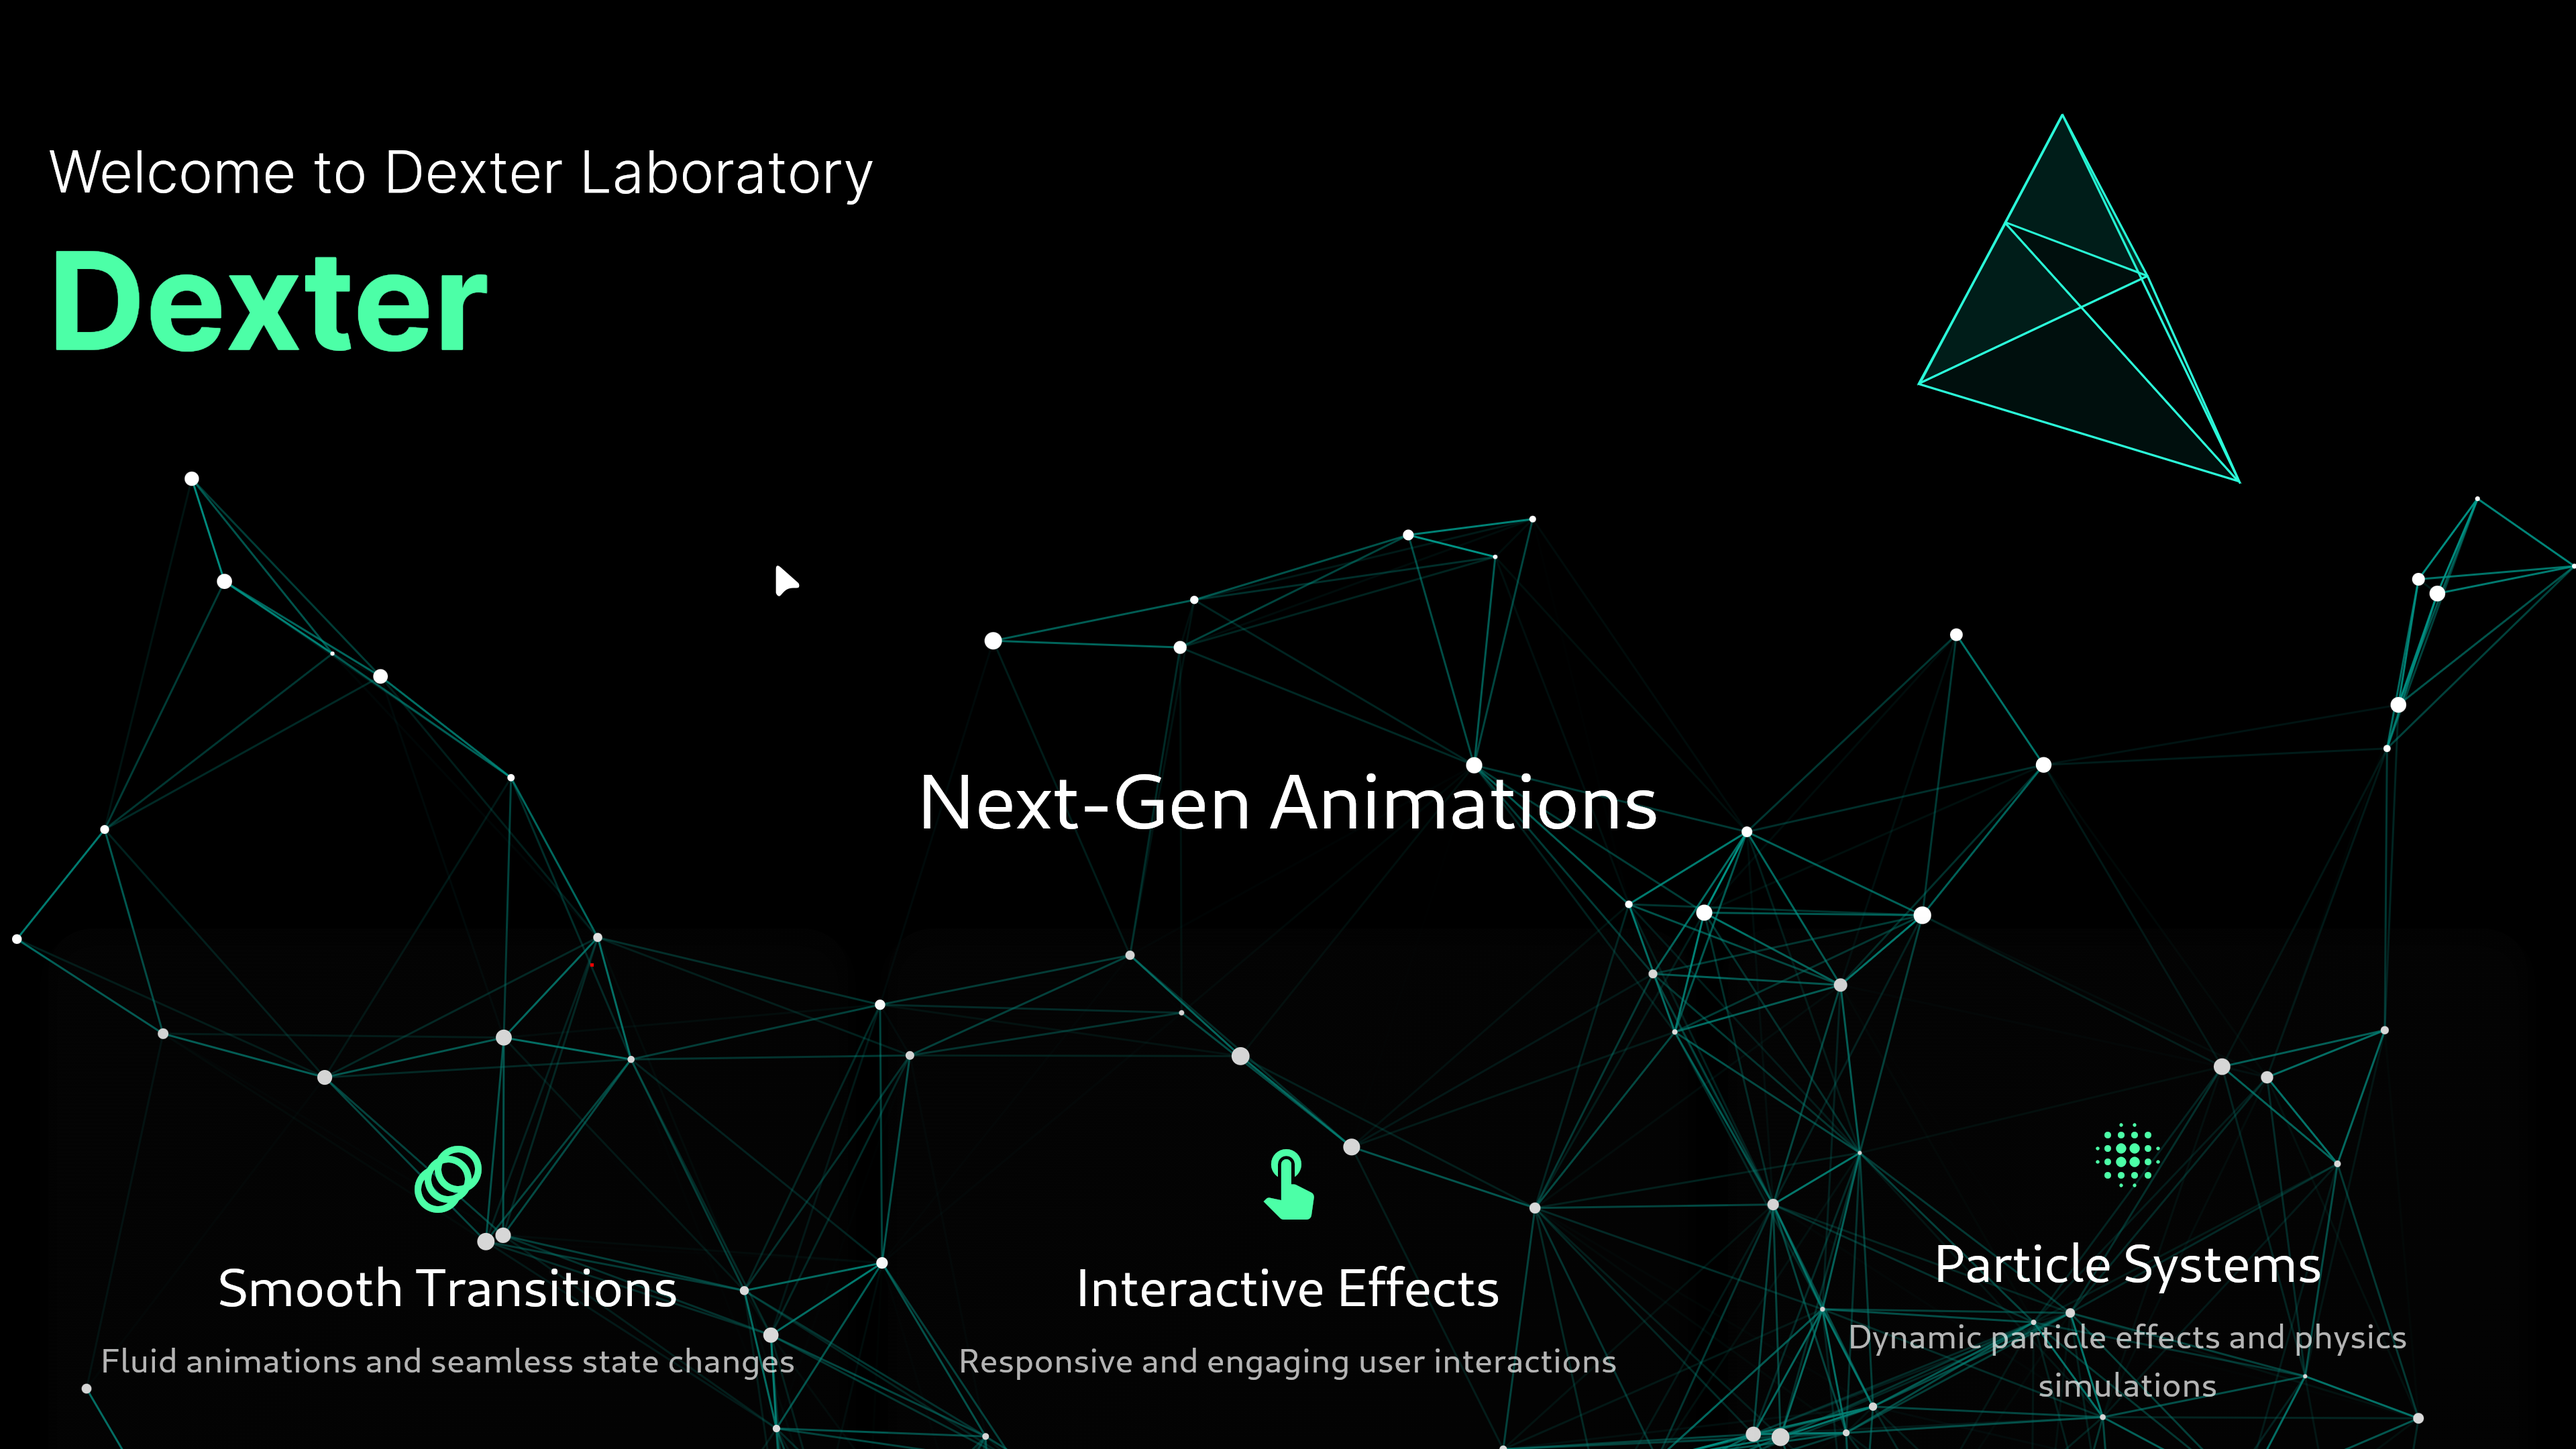
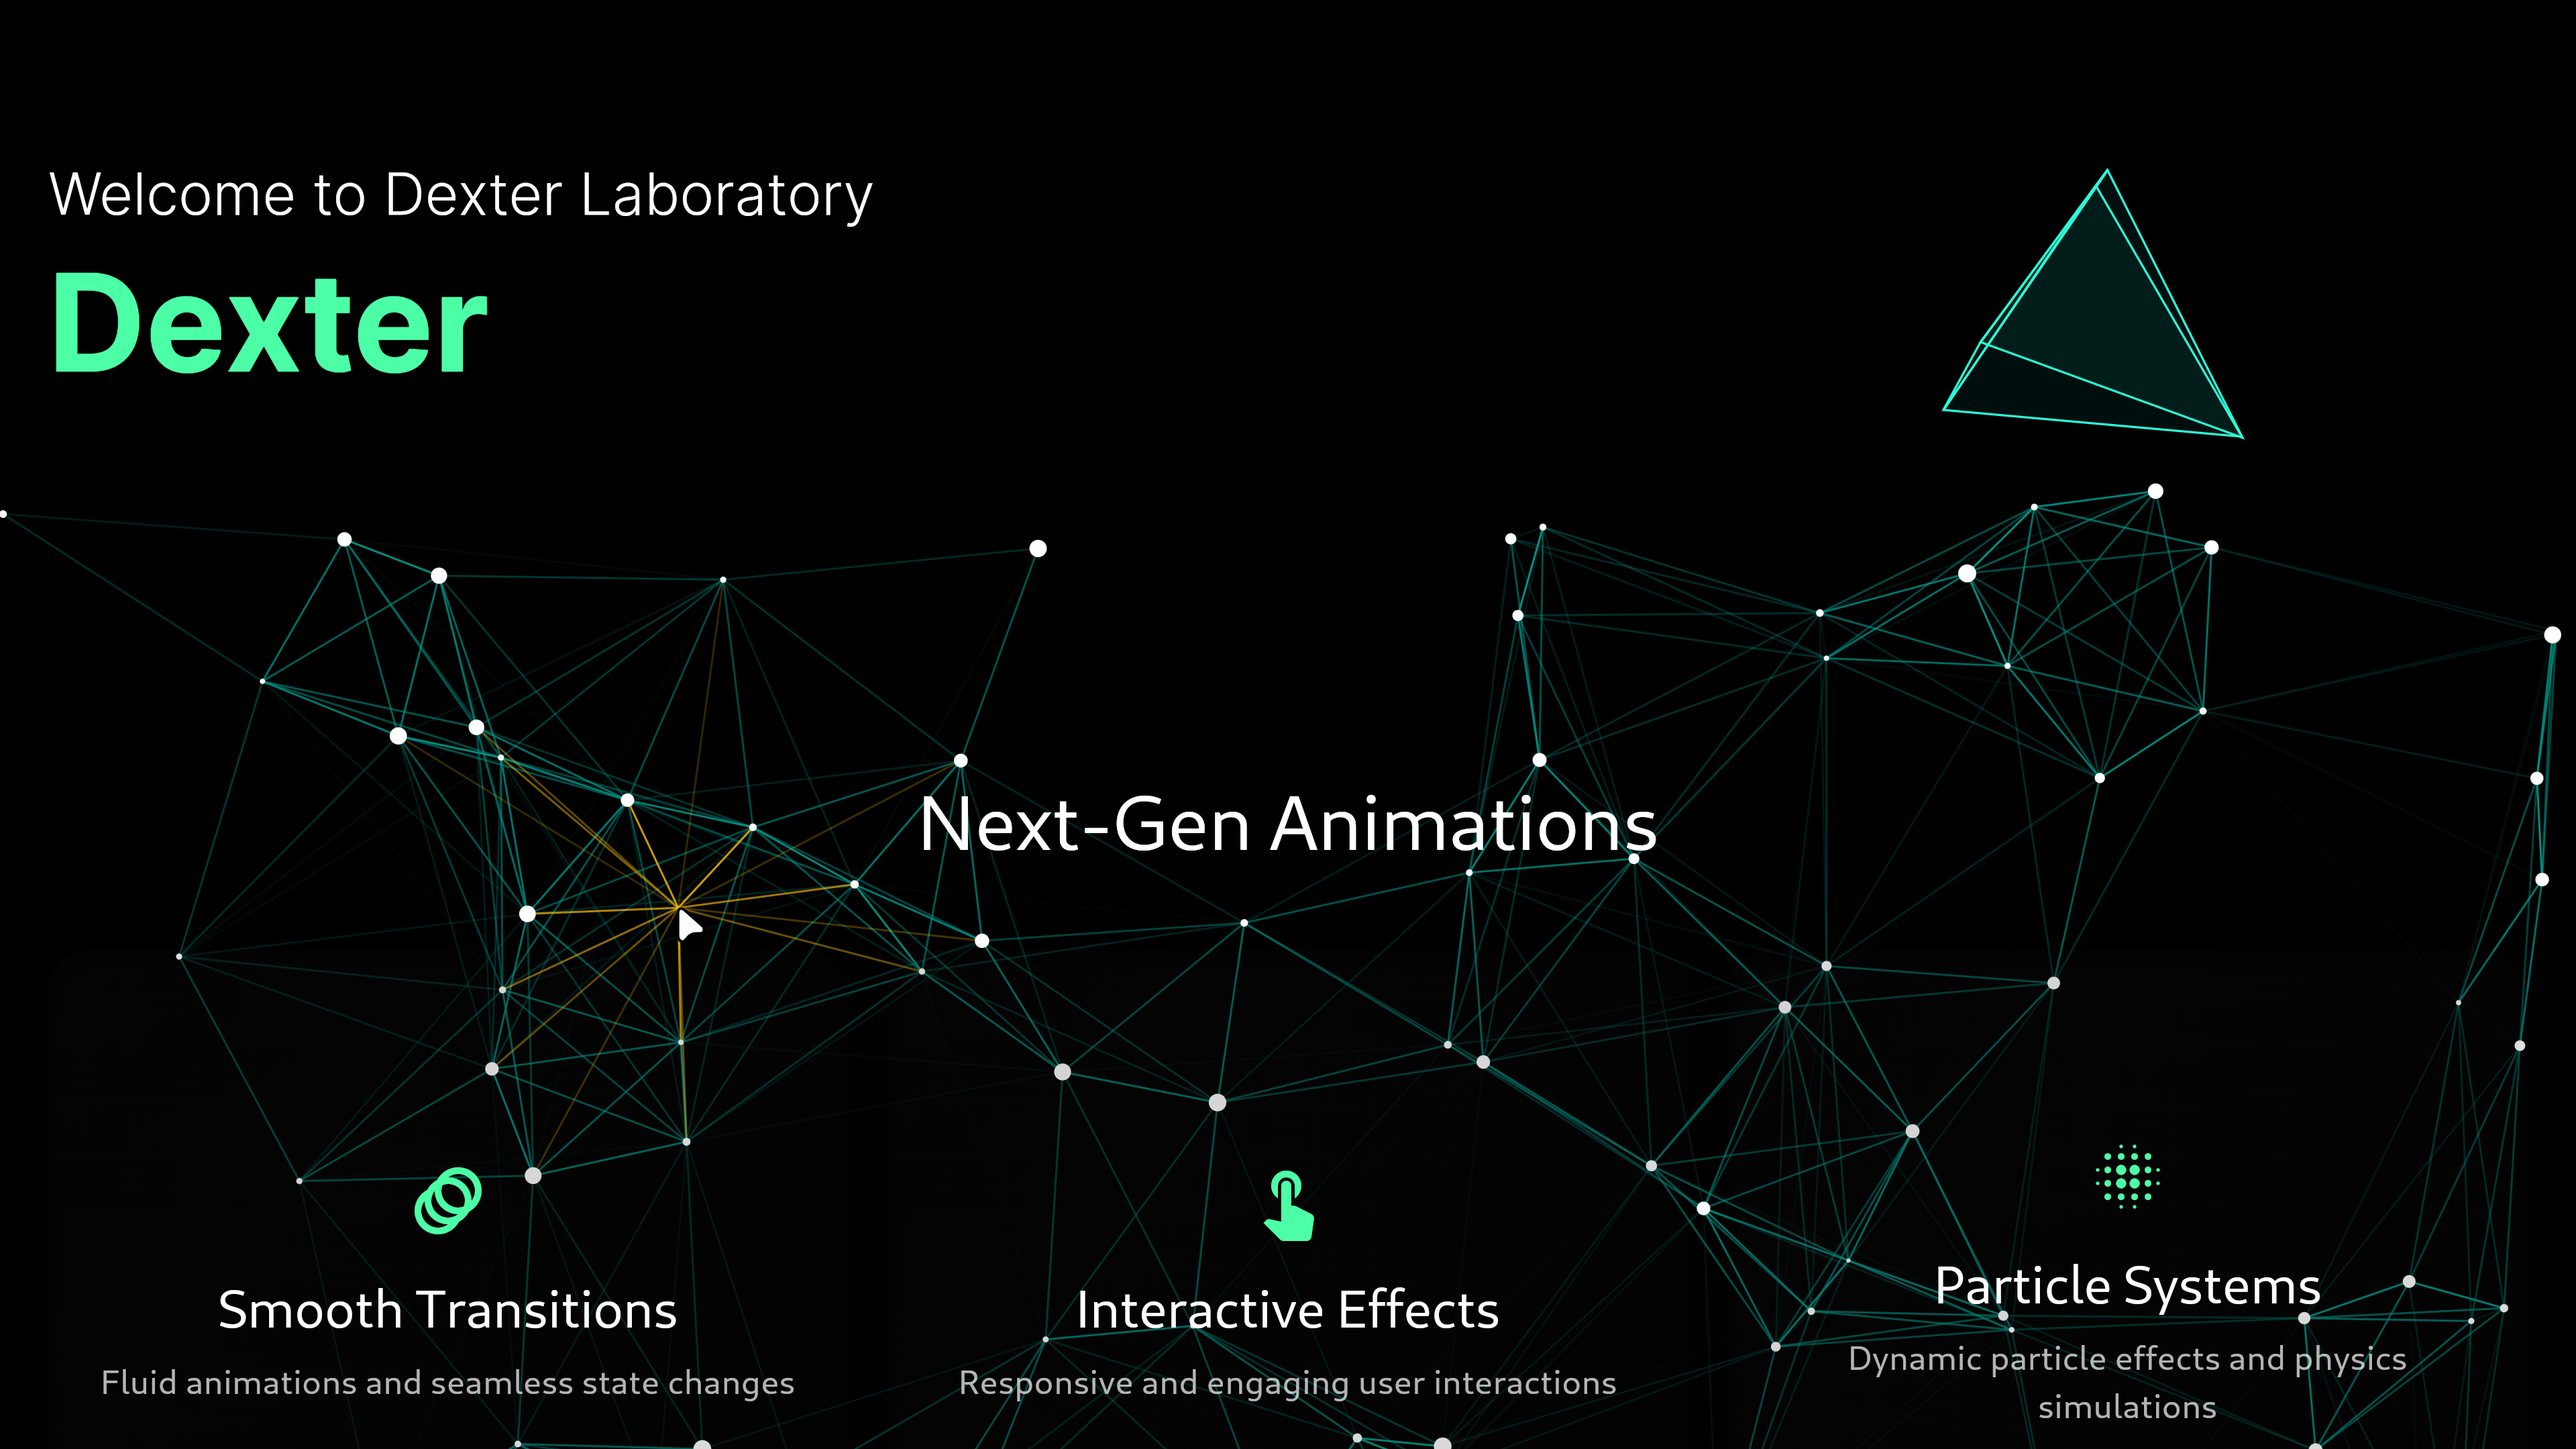
add image and v 1.5.2

diff --git a/README.md b/README.md
@@ -29,13 +29,15 @@ A highly optimized Flutter package that creates an interactive particle network 
 ## Image 
 ![image](https://github.com/abod8639/Particles_Network/raw/main/assets/image.png)
 
+### touchActivation
+![](assets/image.png)
 ## Getting started
 
 Add this package to your Flutter project by adding the following to your `pubspec.yaml`:
 
 ```yaml
 dependencies:
-  particles_network: ^1.5.1
+  particles_network: ^1.5.2
 ```
 
 ## Usage

diff --git a/CHANGELOG.md b/CHANGELOG.md
@@ -1,4 +1,4 @@
-## [1.5.1] 
+## [1.5.2] 
 
 Initial release of the Particles Network package with the following features:
 
